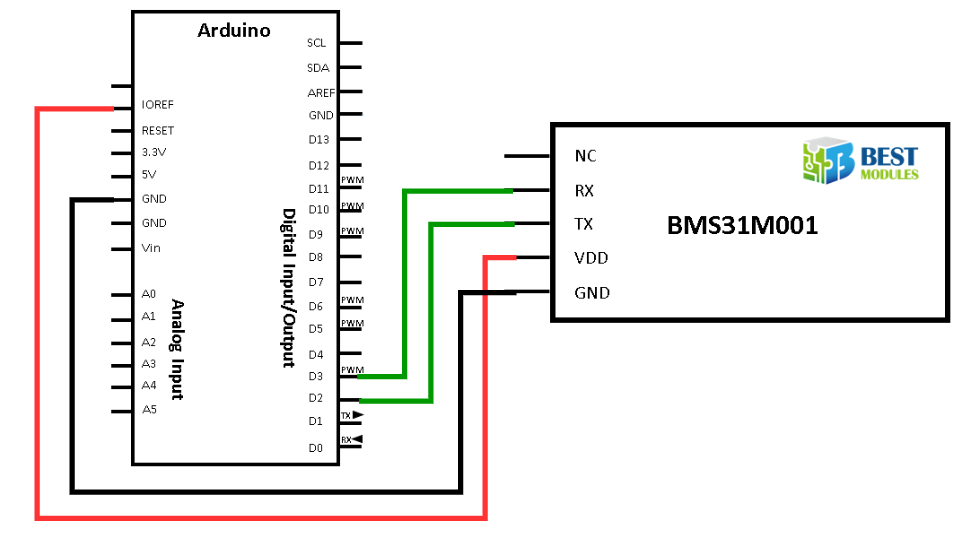
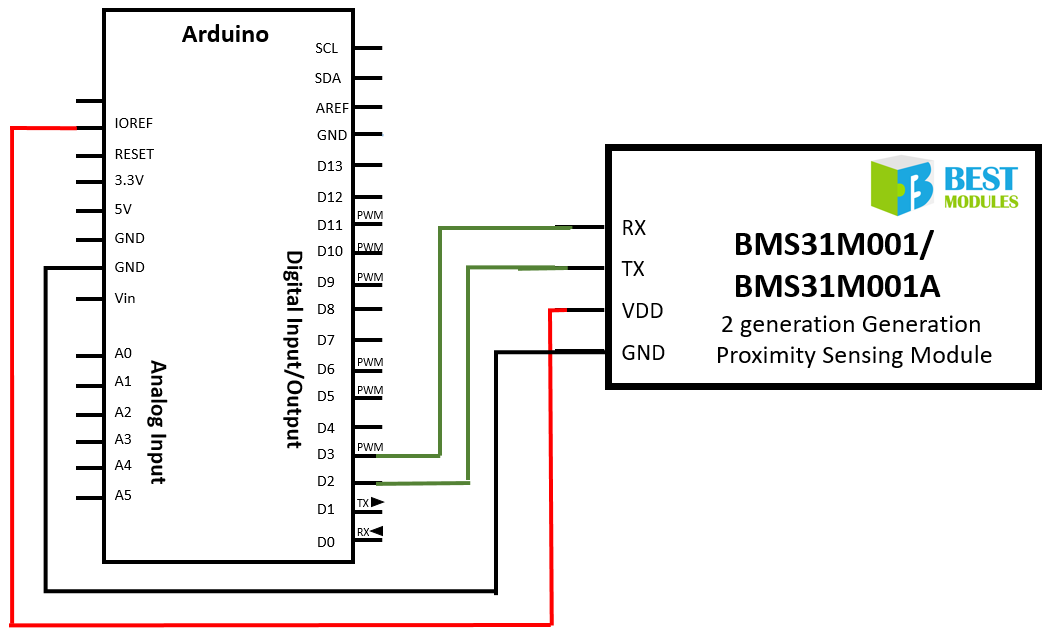
Add files via upload

Changed region(s): [[0.0, 0.0, 0.9846, 1.0]]

diff --git a/src/BM32S2031-1.cpp b/src/BM32S2031-1.cpp
@@ -1,8 +1,8 @@
 /*****************************************************************
 File:             BM32S2031-1.cpp
-Author:           BESTMODULES
+Author:           BEST MODULES CORP.
 Description:      UART communication with the BM32S2031_1 and obtain the corresponding value  
-Version:          V1.0.2   -- 2023-09-14
+Version:          V1.0.3   -- 2025-03-13
 ******************************************************************/
 #include "BM32S2031-1.h"
 /**********************************************************

diff --git a/src/BM32S2031-1.h b/src/BM32S2031-1.h
@@ -1,8 +1,8 @@
 /*****************************************************************
 File:             BM32S2031-1.h
-Author:           BESTMODULES
+Author:           BEST MODULES CORP.
 Description:      Define classes and required variables
-Version:          V1.0.2   -- 2023-09-14
+Version:          V1.0.3   -- 2025-03-13
 ******************************************************************/
 #ifndef _BM32S2031_1_H_
 #define _BM32S2031_1_H_

diff --git a/README.md b/README.md
@@ -6,7 +6,7 @@
 BM32S2031-1
 ===========================================================
 
-The BEST MODULES BM32S2031-1 is a second generation proximity sensor module, which uses the UART communication method. This document provides the description of the BM32S2031-1 Arduino Lib functions and how to install the Arduino Lib. The example demonstrates the functions of obtaining the version number and the signal value when the module is in the sensing status with the BMS31M001 module.
+The BEST MODULES BM32S2031-1 is a second generation proximity sensor module, which uses the UART communication method. This document provides the description of the BM32S2031-1 Arduino Lib functions and how to install the Arduino Lib. The example demonstrates the functions of obtaining the version number and the signal value when the module is in the sensing status with the BMS31M001/BMS31M001A module.
 
 #### Applicable types:
 <div align=center>
@@ -15,6 +15,7 @@ The BEST MODULES BM32S2031-1 is a second generation proximity sensor module, whi
 |:---------:|:---------------------------------------:|
 |BM32S2031-1|Second generation proximity sensor module|
 |BMS31M001  |Integrated BM32S2031-1 module            |
+|BMS31M001A |Integrated BM32S2031-1 module            |
 
 </div> 
 
@@ -31,7 +32,7 @@ Repository Contents
 Documentation 
 -------------------
 
-* **[ BM32S2031-1 Arduino Library V1.0.1 Description v100](https://www.bestmodulescorp.com/bm32s2031-1.html#tab-product2)** - Arduino Library Description.
+* **[ BM32S2031-1 Arduino Library Description](https://www.bestmodulescorp.com/bm32s2031-1.html#tab-product2)** - Arduino Library Description.
 
 Version History  
 -------------------
@@ -40,6 +41,8 @@ Version History
 &emsp;&emsp;- Initial public release.
 * **V1.0.2**  
 &emsp;&emsp;- Modify function:getFWVer(); 
+* **V1.0.3**  
+&emsp;&emsp;- Add applicable models: BMS31M001A; 
 
 License Information
 -------------------
@@ -48,8 +51,8 @@ This product is _**open source**_!
 
 Please review the LICENSE.md file for license information. 
 
-If you have any questions or concerns on licensing, please contact technical support on our BESTMODULES Email:service@bestmodulescorp.com.
+If you have any questions or concerns on licensing, please contact technical support on our BEST MODULES CORP. Email:service@bestmodulescorp.com.
 
 Distributed as-is; no warranty is given.
 
-BESTMODULES
+BEST MODULES CORP.
